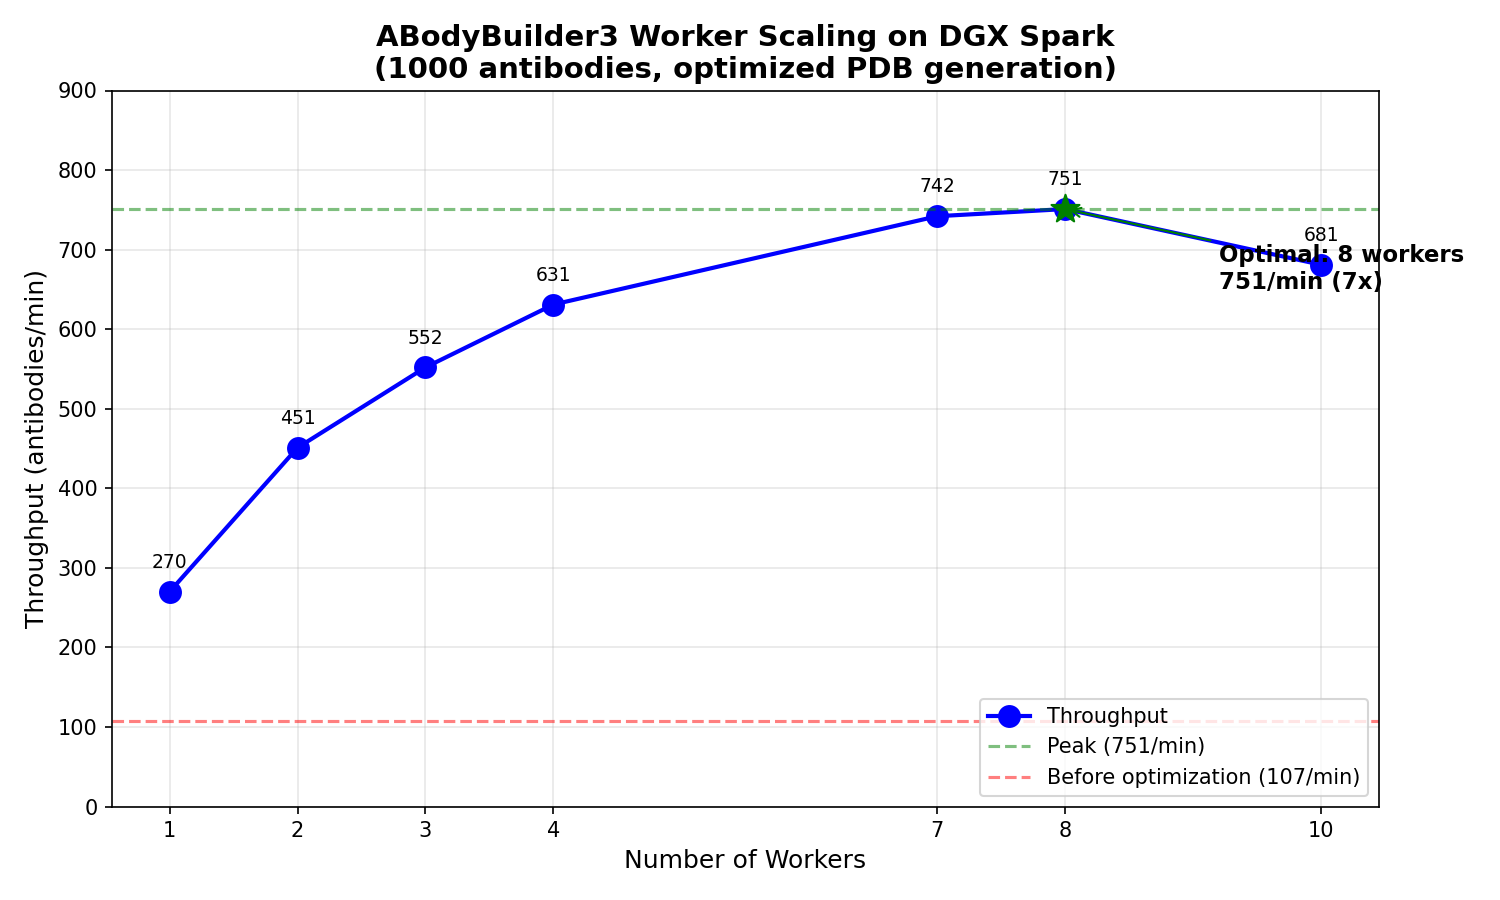
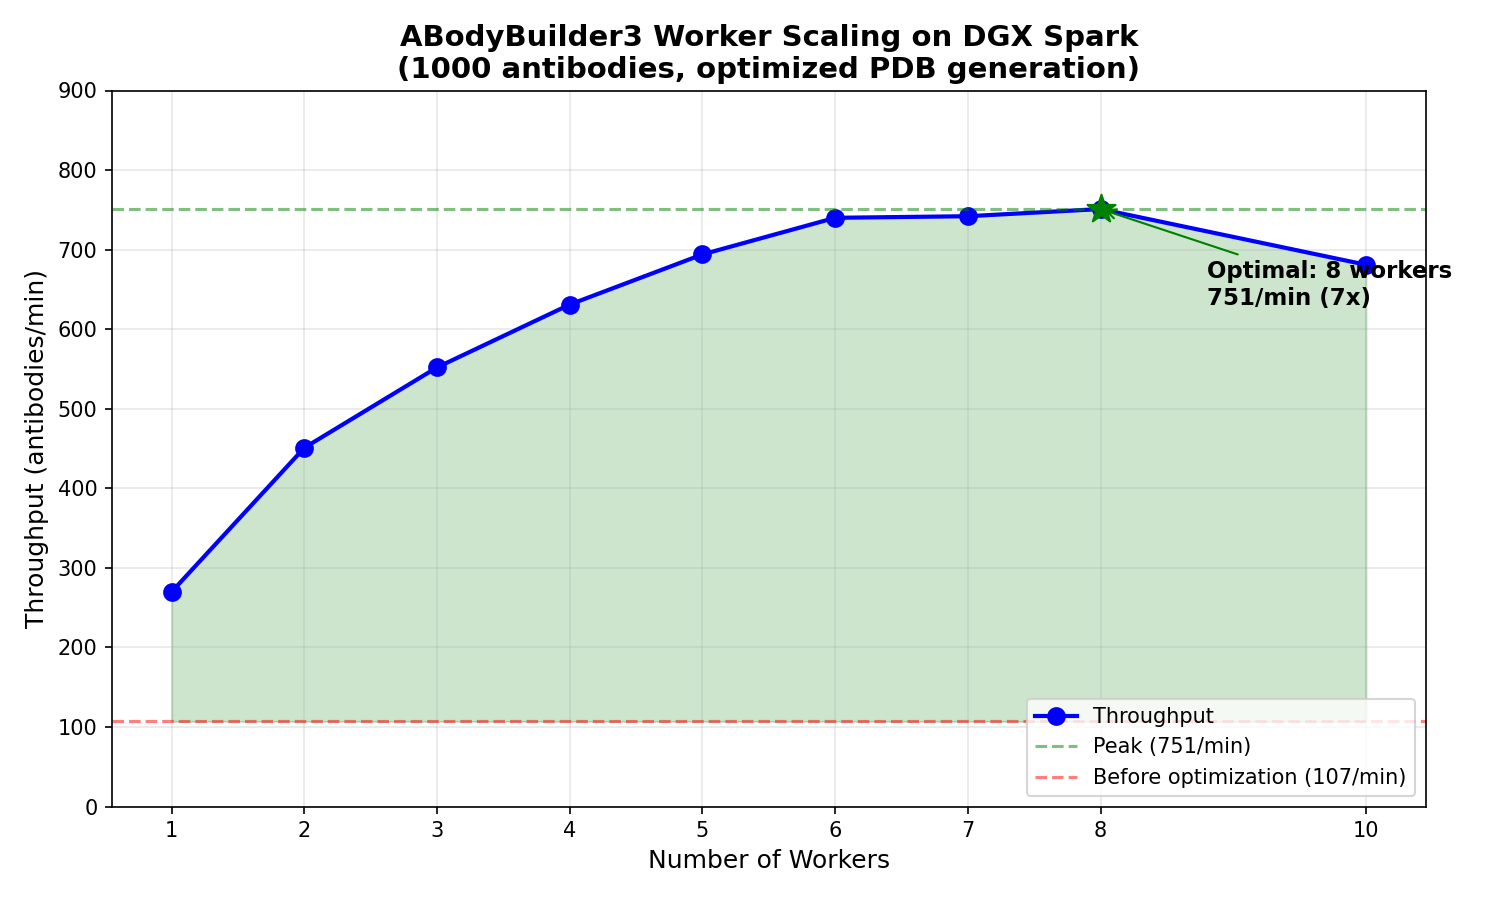
docs: Add complete worker scaling data (5, 6 workers)

diff --git a/README.md b/README.md
@@ -32,6 +32,8 @@ Benchmarks run on **NVIDIA DGX Spark** (Grace Blackwell GB10, 128.5GB unified RA
 | 2 | 451/min | 4.2x |
 | 3 | 552/min | 5.2x |
 | 4 | 631/min | 5.9x |
+| 5 | 694/min | 6.5x |
+| 6 | 740/min | 6.9x |
 | 7 | 742/min | 6.9x |
 | **8** | **751/min** | **7.0x** |
 | 10 | 681/min | 6.4x |
